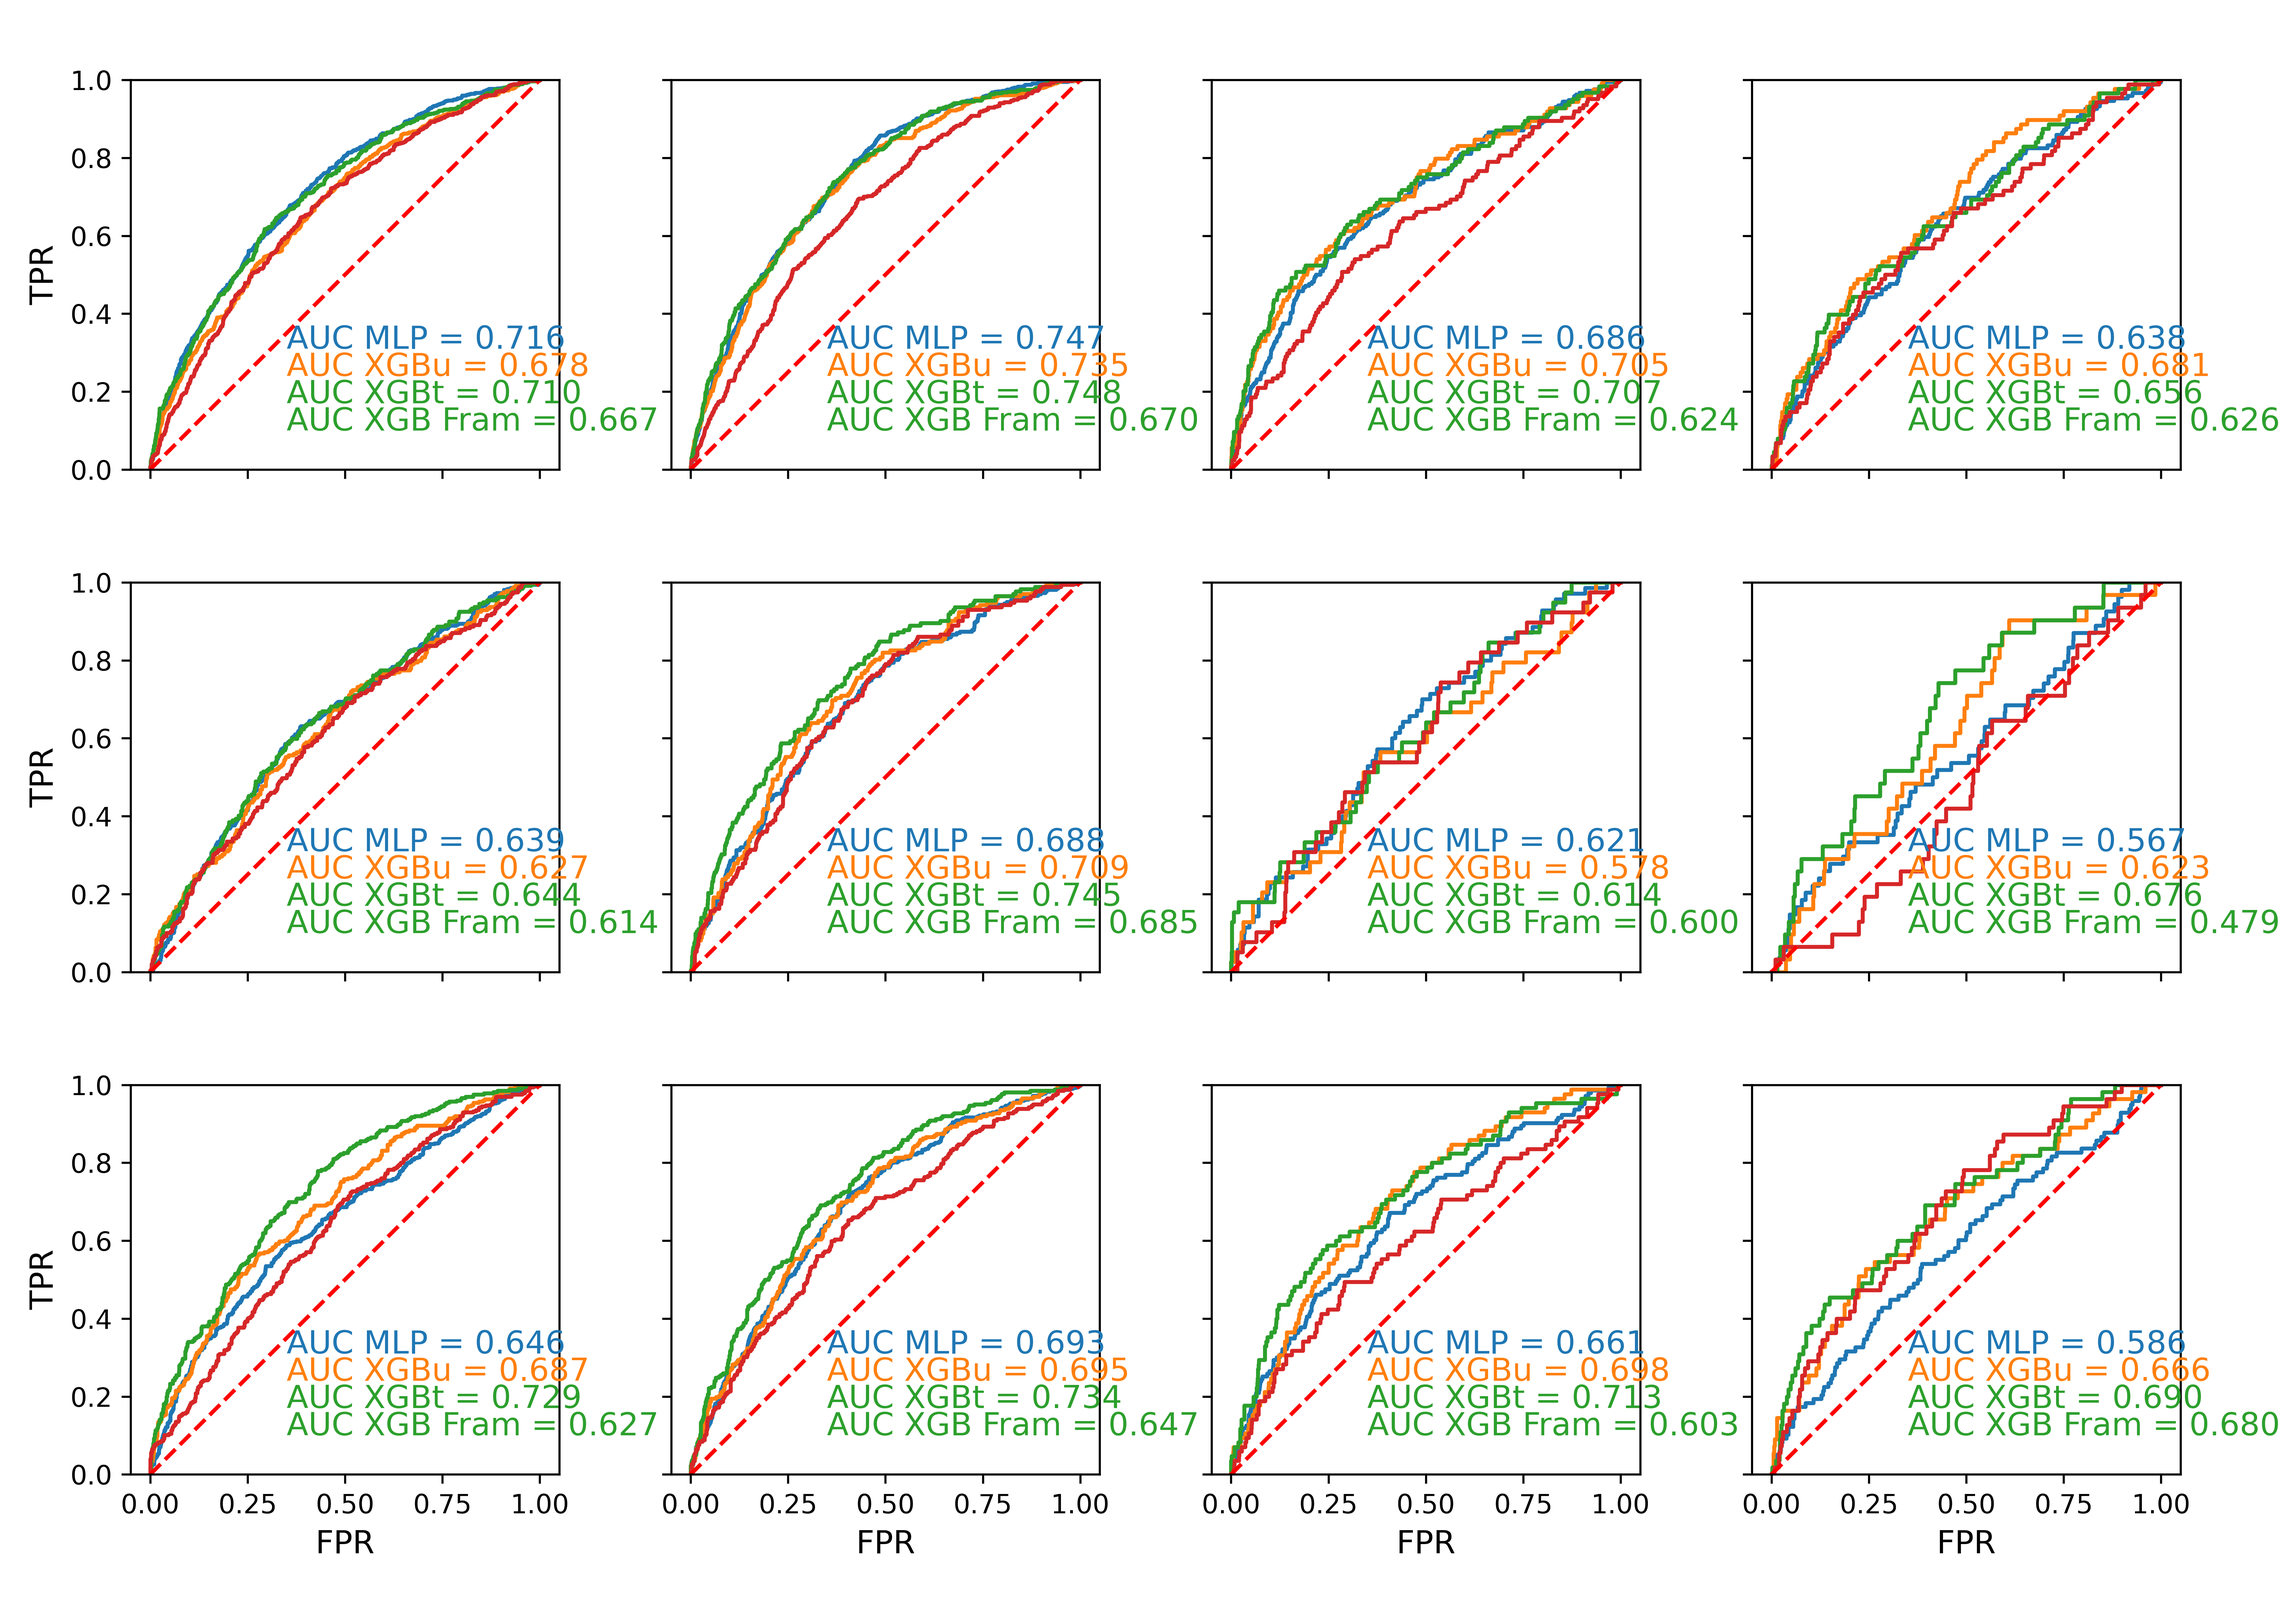
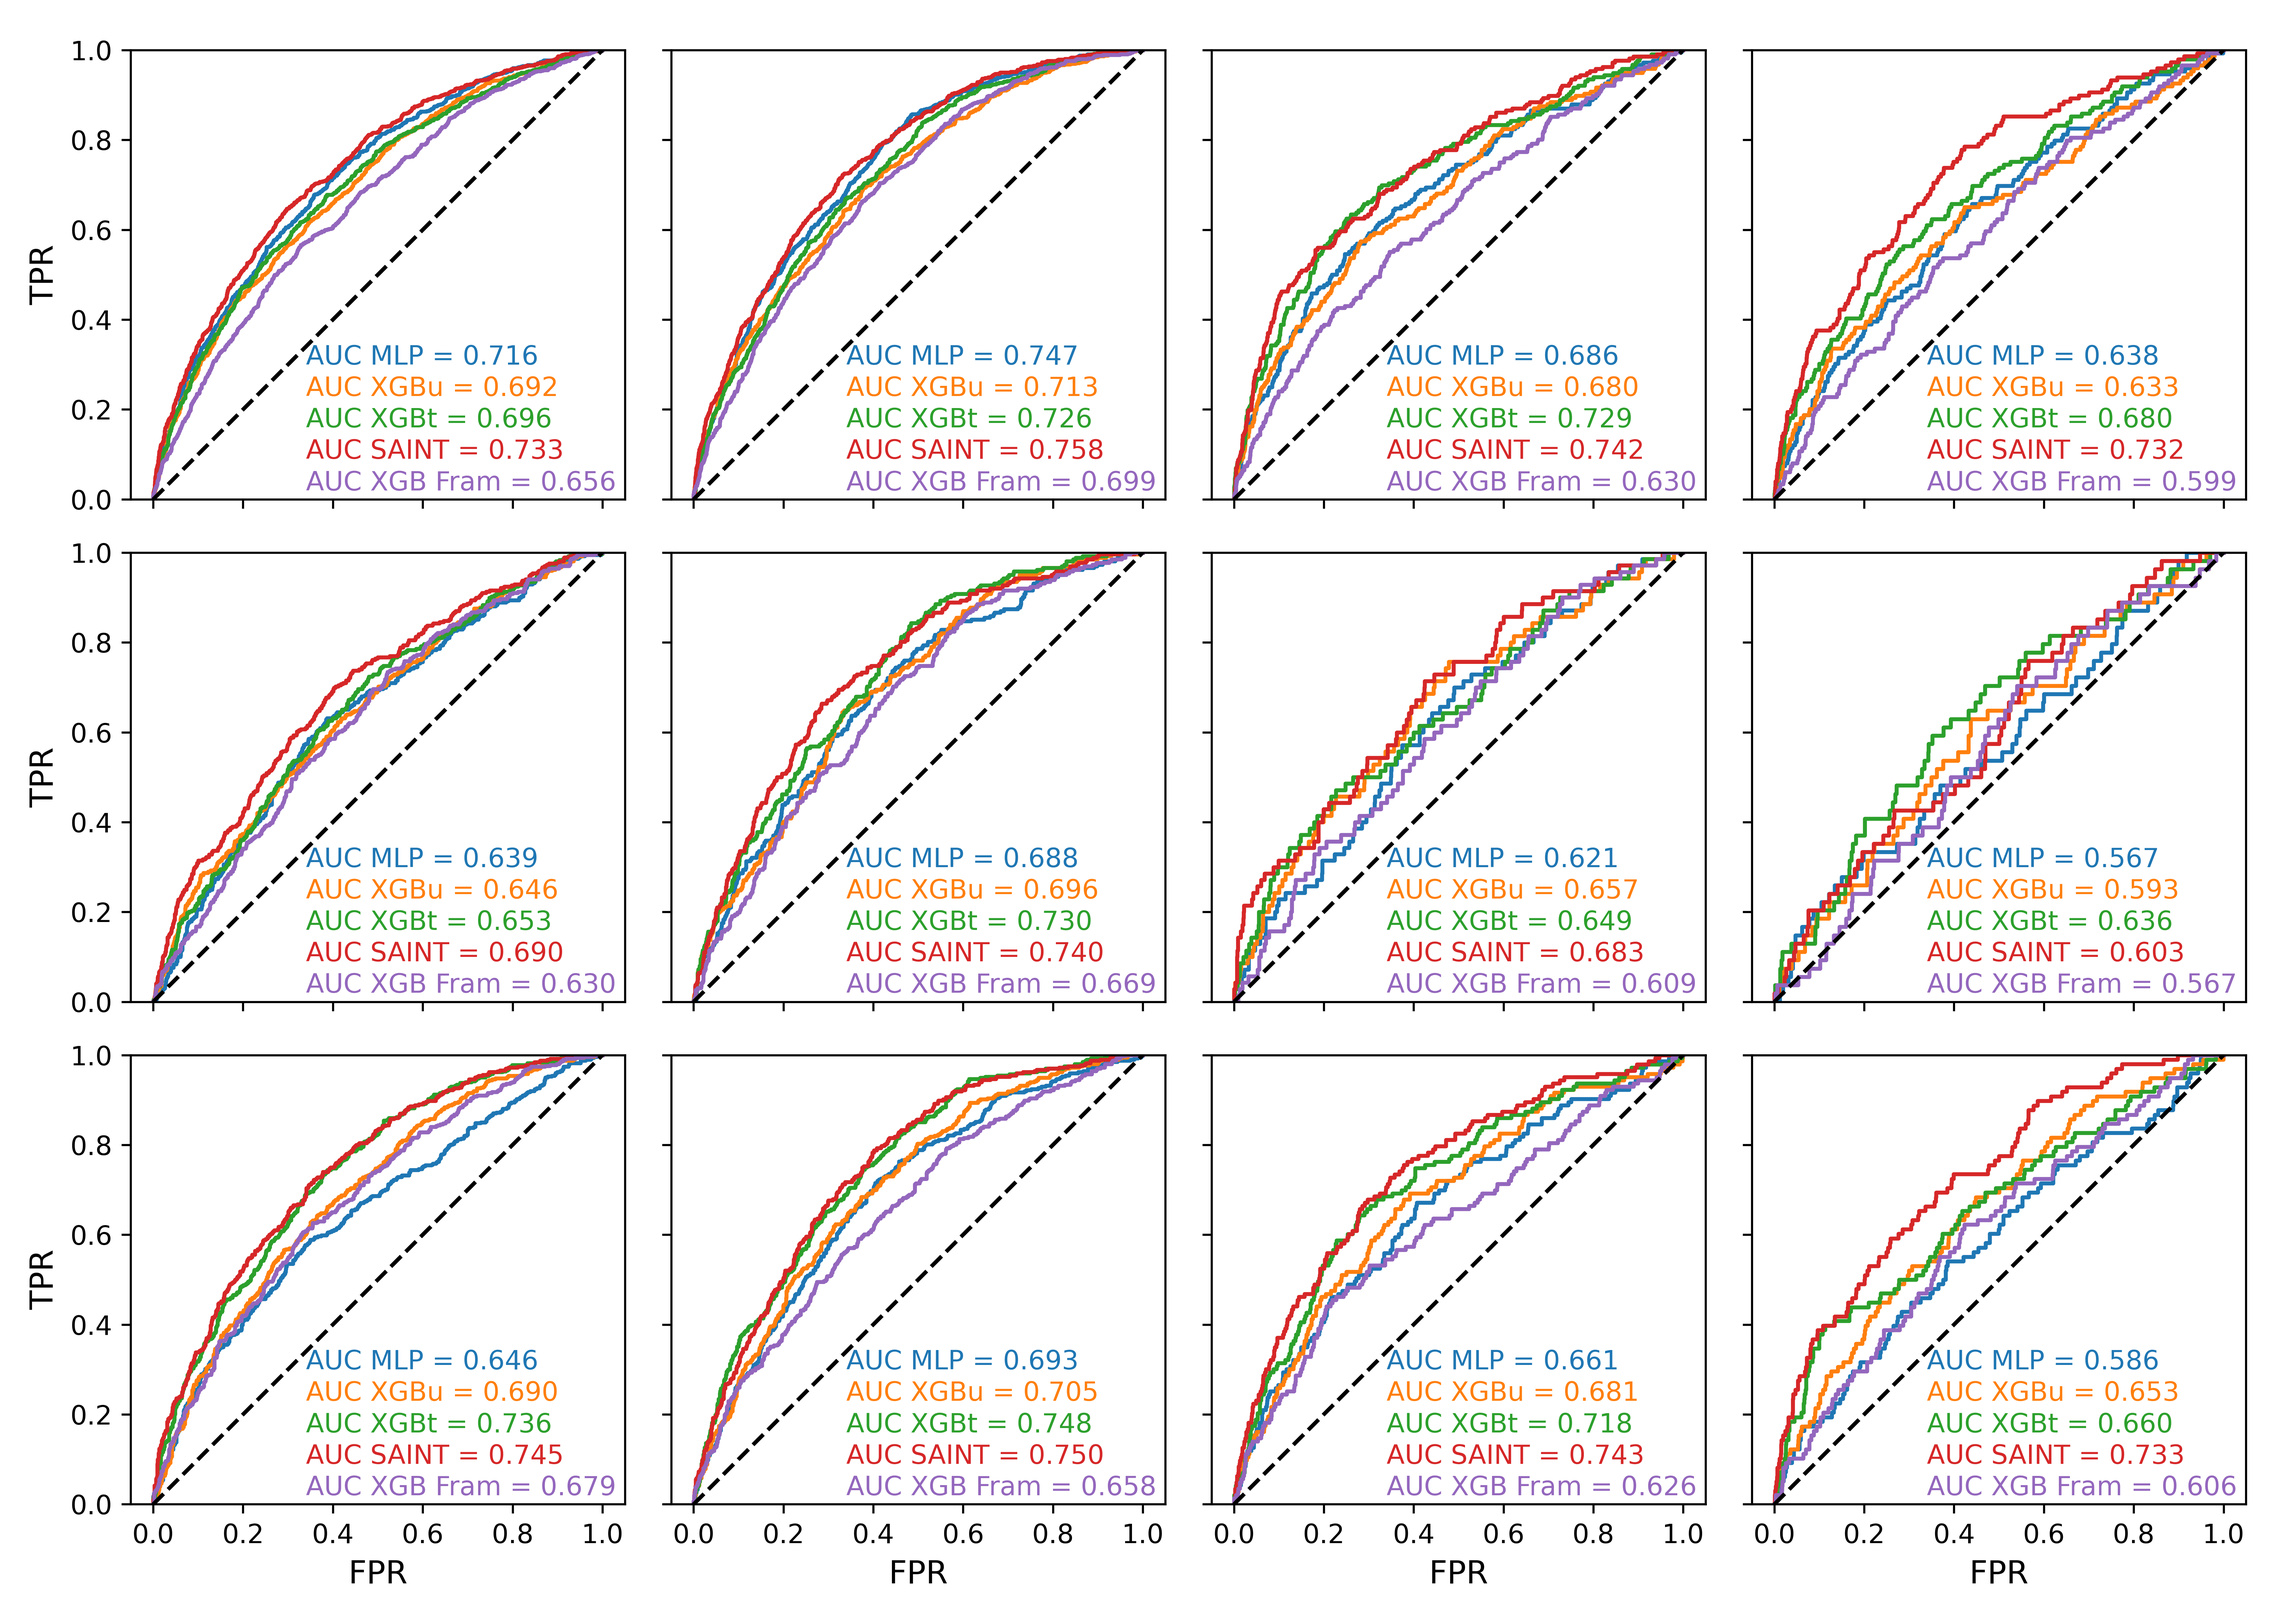
Run SAINT and all evaluation

diff --git a/evaluate_all.py b/evaluate_all.py
@@ -88,10 +88,9 @@ models_saint = []
 testloaders = []
 vision_dsets = []
 XY_saint = []
-for i in range(0, 2) :
+for i in range(N_DATASETS) :
     with open('bestmodels_saint/binary/ds_saint' + str(i) + '.pkl/testrun/properties.pkl', 'rb') as f:
         p = pickle.load(f)
-    print(p)
     model = SAINT(categories = p[0][0], 
                     num_continuous = p[0][1],                
                     dim = p[0][2],                           
@@ -114,57 +113,6 @@ for i in range(0, 2) :
         XY = pickle.load(f)
         XY_saint.append(XY)
 print("Done.")
-
-# TEST #
-device = torch.device("cpu")
-
-model = models_saint[1]
-model.eval()
-m = torch.nn.Softmax(dim=1)
-y_test = torch.empty(0).to(device)
-y_pred = torch.empty(0).to(device)
-prob = torch.empty(0).to(device)
-with torch.no_grad():
-    for i, data in enumerate(testloaders[0], 0):
-        x_categ, x_cont, y_gts, cat_mask, con_mask = data[0].to(device), data[1].to(device),data[2].to(device),data[3].to(device),data[4].to(device)
-        _ , x_categ_enc, x_cont_enc = embed_data_mask(x_categ, x_cont, cat_mask, con_mask,model, vision_dsets[0])           
-        reps = model.transformer(x_categ_enc, x_cont_enc)
-        y_reps = reps[:,0,:]
-        y_outs = model.mlpfory(y_reps)
-        # import ipdb; ipdb.set_trace()   
-        y_test = torch.cat([y_test,y_gts.squeeze().float()],dim=0)
-        y_pred = torch.cat([y_pred,torch.argmax(y_outs, dim=1).float()],dim=0)
-        prob = torch.cat([prob,m(y_outs)[:,-1].float()],dim=0)
-
-print(y_test)
-print(y_pred)
-print(prob)
-
-fpr, tpr, thresholds = roc_curve(y_test, prob)
-
-print("Plotting the ROC curves...")
-
-plt.plot(fpr, tpr)
-
-# Formatting
-# ax[i, j].plot(np.linspace(0,1, 100), np.linspace(0,1,100),'--r')
-# ax[i, j].set_xlabel(('FPR' if i == 2 else ''), fontsize = 12)
-# ax[i, j].set_ylabel(('TPR' if j == 0 else ''), fontsize = 12)
-# ax[i, j].set(ylim = [0., 1.])
-# ax[i, j].set_aspect('equal', 'box')
-# ax[i, j].text(0.5, 0.2, f'AUC = {roc_auc_score(y_true_xgb, y_pred_xgb[:,1]):.3f}', fontsize = 12) # AUC metric
-        
-print("Done.")
-
-# Save fig.
-print("Saving figure...")
-plt.savefig("figures/saint_test.png", dpi = 600)
-print("Done.")
-print("Done evaluating SAINT.")
-
-# with torch.no_grad():
-#     models_saint[0].eval()
-#     print(models_saint[0](XY_saint[0][2]))
 
 ##################################
 ###### Evaluate all models #######
@@ -254,7 +202,7 @@ fig.savefig("figures/ROC_XGB_Untuned.png", dpi = 600)
 print("Done.")
 print("Done evaluating XGBoost (untuned).")
 
-## Tntuned ##
+## Tuned ##
 print("Evaluating XGBoost models (tuned)...")
 
 # Reshape the comprehensive XGBoost model collection 
@@ -309,7 +257,69 @@ print("Done evaluating XGBoost (tuned).")
 ##################
 ## SAINT models ##
 ##################
+print("Evaluating SAINT models...")
+device = torch.device("cpu")
 
+print("Computing predictions and extracting ground truth on the test set...")
+y_test_saint = [[0 for x in range(models_J)] for x in range(models_I)]
+y_pred_saint = [[0 for x in range(models_J)] for x in range(models_I)]
+prob_saint = [[0 for x in range(models_J)] for x in range(models_I)]
+for model_index in range(len(models_saint)) :
+    model = models_saint[model_index]
+    index2d = np.unravel_index(model_index, (models_I, models_J))
+
+    ################################################################################################################
+    ### SAINT test set evaluation modified from the classification_scores function in utils.py (from SAINT repo) ###
+    model.eval()
+    m = torch.nn.Softmax(dim=1)
+    # y_test = torch.empty(0).to(device)
+    # y_pred = torch.empty(0).to(device)
+    # prob = torch.empty(0).to(device)
+    with torch.no_grad():
+        y_test_i = torch.empty(0).to(device)
+        y_pred_i = torch.empty(0).to(device)
+        prob_i = torch.empty(0).to(device)
+        for i, data in enumerate(testloaders[model_index], 0):
+            x_categ, x_cont, y_gts, cat_mask, con_mask = data[0].to(device), data[1].to(device),data[2].to(device),data[3].to(device),data[4].to(device)
+            _ , x_categ_enc, x_cont_enc = embed_data_mask(x_categ, x_cont, cat_mask, con_mask,model, vision_dsets[model_index])           
+            reps = model.transformer(x_categ_enc, x_cont_enc)
+            y_reps = reps[:,0,:]
+            y_outs = model.mlpfory(y_reps)
+            # import ipdb; ipdb.set_trace()   
+            y_test_i = torch.cat([y_test_i,y_gts.squeeze().float()],dim=0)
+            y_pred_i = torch.cat([y_pred_i,torch.argmax(y_outs, dim=1).float()],dim=0)
+            prob_i = torch.cat([prob_i,m(y_outs)[:,-1].float()],dim=0)
+        y_test_saint[index2d[0]][index2d[1]] = y_test_i
+        y_pred_saint[index2d[0]][index2d[1]] = y_pred_i
+        prob_saint[index2d[0]][index2d[1]] = prob_i
+    ################################################################################################################
+print("Done.")
+
+# Plot the ROC curve and report the AUC metric for all 12 SAINT models
+print("Plotting the ROC curves...")
+fig, ax = plt.subplots(models_I, models_J, sharex=True, sharey=True, dpi = 160, figsize=(12, 8.5))
+for i in range(models_I) :
+    for j in range(models_J) :
+        # ROC curve
+        fpr, tpr, thresholds = roc_curve(y_test_saint[i][j], prob_saint[i][j])
+        ax[i, j].plot(fpr, tpr)
+        
+        # Formatting
+        ax[i, j].plot(np.linspace(0,1, 100), np.linspace(0,1,100),'--r')
+        ax[i, j].set_xlabel(('FPR' if i == 2 else ''), fontsize = 12)
+        ax[i, j].set_ylabel(('TPR' if j == 0 else ''), fontsize = 12)
+        ax[i, j].set(ylim = [0., 1.])
+        ax[i, j].set_aspect('equal', 'box')
+        ax[i, j].text(0.5, 0.2, f'AUC = {roc_auc_score(y_test_saint[i][j], prob_saint[i][j]):.3f}', fontsize = 12) # AUC metric
+        
+fig.tight_layout()
+print("Done.")
+
+# Save fig.
+print("Saving figure...")
+plt.savefig("figures/ROC_SAINT.png", dpi = 600)
+print("Done.")
+print("Done evaluating SAINT.")
 
 ##############################
 ## All models in one figure ##
@@ -317,6 +327,7 @@ print("Done evaluating XGBoost (tuned).")
 print("Plotting the ROC curves for all 60 models in one figure...")
 fig, ax = plt.subplots(models_I, models_J, sharex=True, sharey=True, dpi = 160, figsize=(12, 8.5))
 fig.tight_layout()
+c = plt.rcParams['axes.prop_cycle'].by_key()['color'][0:5]
 for i in range(models_I) :
     for j in range(models_J) :
         # Baseline MLPs
@@ -336,7 +347,11 @@ for i in range(models_I) :
         y_pred_xgb_tuned = xgb_cl_tuned.predict_proba(x_test_xgb) # XGB test set predictions
         fpr, tpr, thresholds = roc_curve(y_true_xgb, y_pred_xgb_tuned[:,1]) # ROC curve
         ax[i, j].plot(fpr, tpr)
-        
+
+        # SAINT
+        fpr, tpr, thresholds = roc_curve(y_test_saint[i][j], prob_saint[i][j])
+        ax[i, j].plot(fpr, tpr)
+
         # XGBoost (Tuned, Framingham Only)
         xgb_cl_tunedF = xgb_classifiers_tuned_rF[i, j]
         x_test_xgbF = XY_xgb_rF[i, j][1]
@@ -346,16 +361,16 @@ for i in range(models_I) :
         ax[i, j].plot(fpr, tpr)
         
         # Formatting
-        ax[i, j].plot(np.linspace(0, 1, 100), np.linspace(0,1,100),'--r')
+        ax[i, j].plot(np.linspace(0, 1, 100), np.linspace(0,1,100),'--k')
         ax[i, j].set_xlabel(('FPR' if i == 2 else ''), fontsize = 12)
         ax[i, j].set_ylabel(('TPR' if j == 0 else ''), fontsize = 12)
         ax[i, j].set(ylim = [0., 1.])
         ax[i, j].set_aspect('equal', 'box')
-        c = plt.rcParams['axes.prop_cycle'].by_key()['color'][0:3]
-        ax[i, j].text(0.35, 0.31, f'AUC MLP = {roc_auc_score(y_true[i, j], y_pred[i, j]):.3f}', fontsize = 12, color = c[0]) # AUC metric
-        ax[i, j].text(0.35, 0.24, f'AUC XGBu = {roc_auc_score(y_true_xgb, y_pred_xgb[:,1]):.3f}', fontsize = 12, color = c[1]) # AUC metric
-        ax[i, j].text(0.35, 0.17, f'AUC XGBt = {roc_auc_score(y_true_xgb, y_pred_xgb_tuned[:,1]):.3f}', fontsize = 12, color = c[2]) # AUC metric
-        ax[i, j].text(0.35, 0.1, f'AUC XGB Fram = {roc_auc_score(y_true_xgbF, y_pred_xgb_tunedF[:,1]):.3f}', fontsize = 12, color = c[2]) # AUC metric
+        ax[i, j].text(0.34, 0.30, f'AUC MLP = {roc_auc_score(y_true[i, j], y_pred[i, j]):.3f}', fontsize = 10, color = c[0]) # AUC metric
+        ax[i, j].text(0.34, 0.23, f'AUC XGBu = {roc_auc_score(y_true_xgb, y_pred_xgb[:,1]):.3f}', fontsize = 10, color = c[1]) # AUC metric
+        ax[i, j].text(0.34, 0.16, f'AUC XGBt = {roc_auc_score(y_true_xgb, y_pred_xgb_tuned[:,1]):.3f}', fontsize = 10, color = c[2]) # AUC metric
+        ax[i, j].text(0.34, 0.09, f'AUC SAINT = {roc_auc_score(y_test_saint[i][j], prob_saint[i][j]):.3f}', fontsize = 10, color = c[3]) # AUC metric
+        ax[i, j].text(0.34, 0.02, f'AUC XGB Fram = {roc_auc_score(y_true_xgbF, y_pred_xgb_tunedF[:,1]):.3f}', fontsize = 10, color = c[4]) # AUC metric
         ax[i, j].set(xlabel = ('FPR' if i == 2 else ''), ylabel = ('TPR' if j == 0 else ''), ylim = [0., 1.])
 
 fig.tight_layout()
